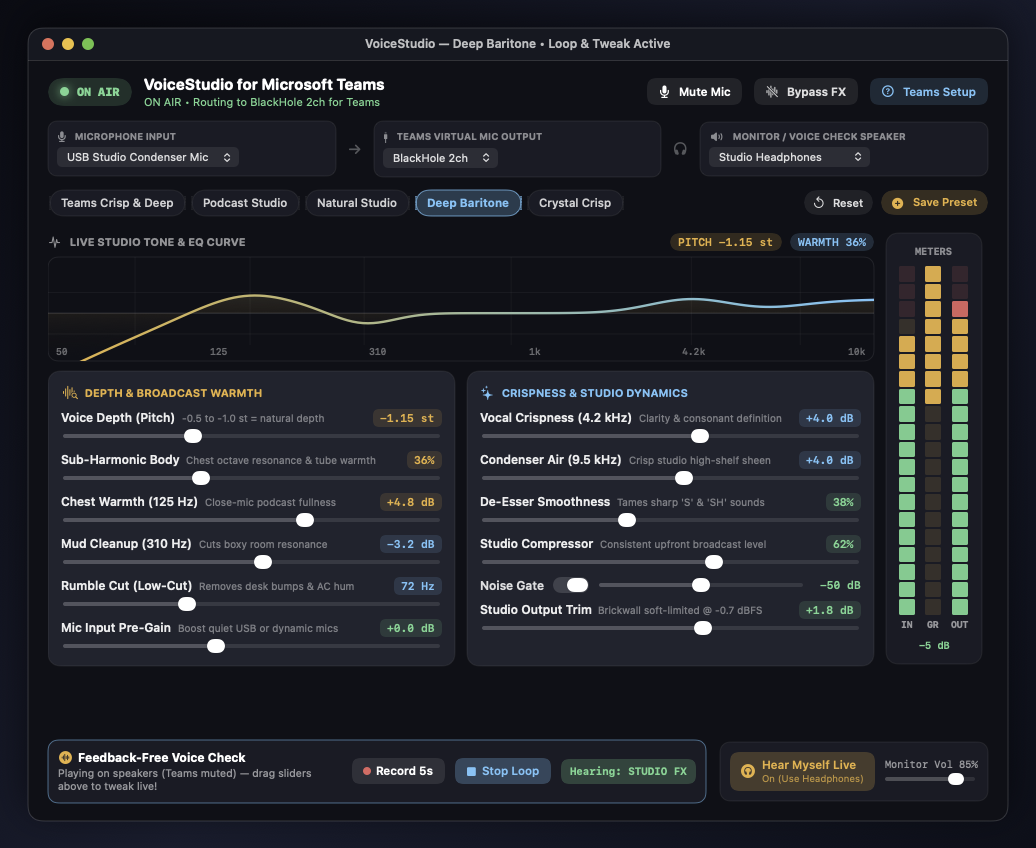
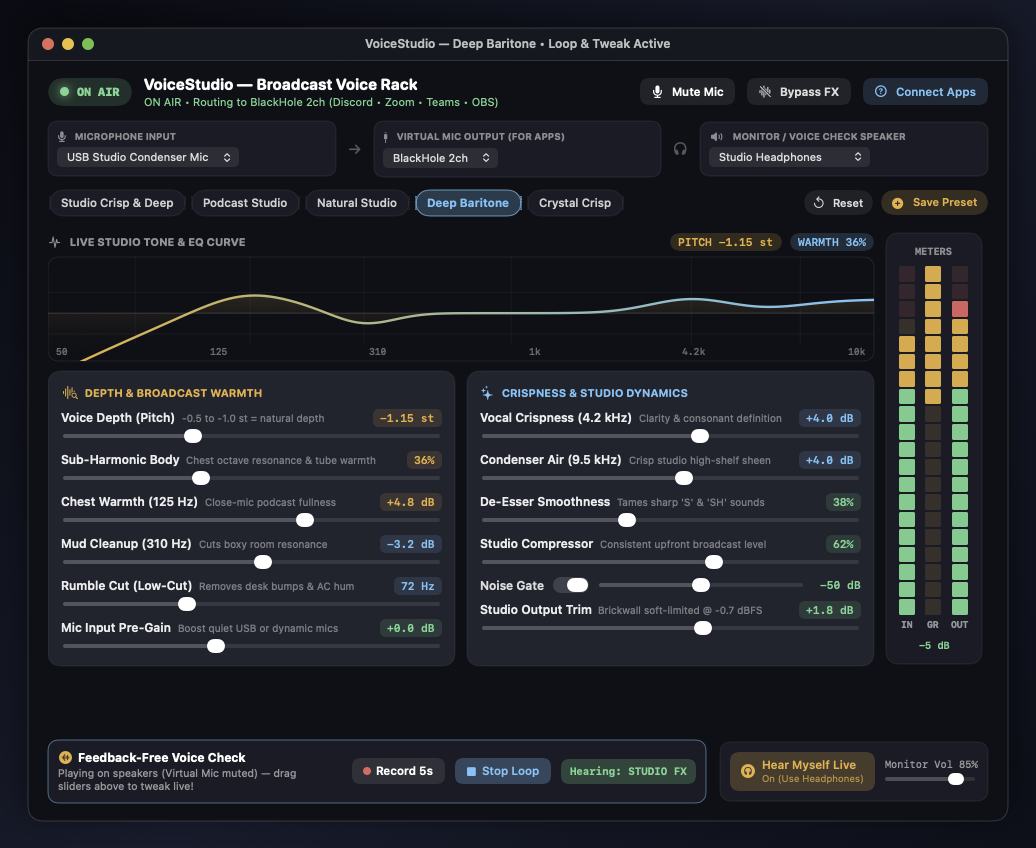
Generalize VoiceStudio across Discord, Zoom, Teams, Slack, Meet, OBS & DAWs
- Rename default preset to Studio Crisp & Deep and header to Broadcast Voice Rack
- Add Connect Apps setup guide covering Discord, Zoom, Teams, Slack, Meet, OBS, FaceTime & DAWs
- Filter Zoom and Steam loopback virtual devices alongside Teams from raw mic inputs
- Refresh SVG hero banner, Retina screenshots, README app compatibility table, and DMG quickstart

diff --git a/Sources/VoiceStudioApp/Views/AppSetupSheet.swift b/Sources/VoiceStudioApp/Views/AppSetupSheet.swift
@@ -1,0 +1,93 @@
+import SwiftUI
+
+struct AppSetupSheet: View {
+    @ObservedObject var vm: StudioViewModel
+    @Environment(\.dismiss) private var dismiss
+
+    var body: some View {
+        VStack(alignment: .leading, spacing: 16) {
+            HStack(spacing: 12) {
+                Image(systemName: "person.wave.2.fill")
+                    .font(.system(size: 24))
+                    .foregroundStyle(StudioTheme.accentCyan)
+                VStack(alignment: .leading, spacing: 2) {
+                    Text("Connect VoiceStudio to Any macOS App")
+                        .font(.system(size: 17, weight: .bold))
+                    Text(vm.isBlackHoleSelected
+                         ? "Active: \(vm.selectedInputName) → Studio DSP → BlackHole 2ch"
+                         : "Select 'BlackHole 2ch' in Virtual Mic Output, then pick it inside any app below")
+                        .font(.system(size: 12))
+                        .foregroundStyle(.secondary)
+                }
+                Spacer()
+            }
+
+            Divider()
+
+            VStack(alignment: .leading, spacing: 12) {
+                appRow(
+                    badge: "Discord",
+                    title: "Settings → Voice & Video → Input Device: 'BlackHole 2ch'",
+                    detail: "Keep Output Device on your Headphones/Speakers. Turn OFF Krisp Noise Suppression & Echo Cancellation if you want full warm sub-bass & 10 kHz studio air."
+                )
+
+                appRow(
+                    badge: "Zoom",
+                    title: "Settings → Audio → Microphone: 'BlackHole 2ch'",
+                    detail: "Enable 'Original Sound for Musicians' (High-Fidelity Music Mode off) for uncompressed studio broadcast tone."
+                )
+
+                appRow(
+                    badge: "Teams",
+                    title: "Settings → Devices → Microphone: 'BlackHole 2ch'",
+                    detail: "Set Noise Suppression to 'Low' or 'Off' so your 125 Hz chest warmth and crisp condenser sheen aren't filtered out."
+                )
+
+                appRow(
+                    badge: "Slack / Meet",
+                    title: "Audio & Video Settings → Microphone: 'BlackHole 2ch'",
+                    detail: "Works across Slack Huddles, Google Meet, Webex, WhatsApp, Telegram, FaceTime, and Steam Voice."
+                )
+
+                appRow(
+                    badge: "OBS / DAWs",
+                    title: "Audio Input Capture / Mic Aux → 'BlackHole 2ch'",
+                    detail: "Stream or record studio-ready vocals directly in OBS Studio, Twitch Studio, QuickTime, Riverside, Descript, Logic Pro, or Audacity."
+                )
+            }
+
+            HStack {
+                Text("Never set an app's Speaker / Output to BlackHole 2ch — always keep Speakers on your normal headphones or monitors.")
+                    .font(.system(size: 11))
+                    .foregroundStyle(.secondary)
+                Spacer()
+                Button("Got It") {
+                    dismiss()
+                }
+                .keyboardShortcut(.defaultAction)
+            }
+        }
+        .padding(24)
+        .frame(width: 580)
+    }
+
+    private func appRow(badge: String, title: String, detail: String) -> some View {
+        HStack(alignment: .top, spacing: 12) {
+            Text(badge)
+                .font(.system(size: 11, weight: .bold, design: .rounded))
+                .frame(width: 82, height: 24)
+                .background(StudioTheme.accentCyan.opacity(0.18))
+                .foregroundStyle(StudioTheme.accentCyan)
+                .clipShape(RoundedRectangle(cornerRadius: 6, style: .continuous))
+
+            VStack(alignment: .leading, spacing: 2) {
+                Text(title)
+                    .font(.system(size: 12.5, weight: .semibold))
+                Text(detail)
+                    .font(.system(size: 11.5))
+                    .foregroundStyle(.secondary)
+                    .fixedSize(horizontal: false, vertical: true)
+            }
+        }
+    }
+}

diff --git a/Sources/VoiceStudioApp/ViewModels/StudioViewModel.swift b/Sources/VoiceStudioApp/ViewModels/StudioViewModel.swift
@@ -54,7 +54,7 @@ public final class StudioViewModel: ObservableObject {
     }
 
     // Profiles & Presets
-    @Published public var profile: VoiceProfile = .teamsCrispAndDeep {
+    @Published public var profile: VoiceProfile = .studioCrispAndDeep {
         didSet {
             engine.applyProfile(profile)
             persistCurrentProfile()
@@ -67,7 +67,7 @@ public final class StudioViewModel: ObservableObject {
     @Published public var micPermissionDenied: Bool = false
     @Published public var statusMessage: String = "Initializing audio studio…"
     @Published public var errorBanner: String? = nil
-    @Published public var showTeamsGuide: Bool = false
+    @Published public var showAppSetupGuide: Bool = false
 
     private let engine = VoiceStudioEngine()
     private let deviceManager = CoreAudioDeviceManager.shared
@@ -100,8 +100,8 @@ public final class StudioViewModel: ObservableObject {
             selectedMonitorID = 301
             isEngineRunning = true
             micPermissionGranted = true
-            statusMessage = "ON AIR • Routing to BlackHole 2ch for Teams"
-            profile = .teamsCrispAndDeep
+            statusMessage = "ON AIR • Routing to BlackHole 2ch (Discord • Zoom • Teams • OBS)"
+            profile = .studioCrispAndDeep
             meters.inputMeterDb = -13.5
             meters.gainReductionDb = 4.2
             meters.outputMeterDb = -6.8
@@ -205,7 +205,7 @@ public final class StudioViewModel: ObservableObject {
             // keep current
         } else if let uid = savedOutUID, let match = newOutputs.first(where: { $0.uid == uid }) {
             selectedOutputID = match.id
-        } else if let pref = deviceManager.preferredTeamsVirtualOutput() {
+        } else if let pref = deviceManager.preferredVirtualMicOutput() {
             selectedOutputID = pref.id
         }
 
@@ -269,7 +269,7 @@ public final class StudioViewModel: ObservableObject {
             isEngineRunning = true
             errorBanner = nil
             statusMessage = isBlackHoleSelected
-                ? "ON AIR • Routing to BlackHole 2ch for Teams"
+                ? "ON AIR • Routing to BlackHole 2ch (Discord • Zoom • Teams • OBS)"
                 : "ON AIR • Routing to \(selectedOutputName)"
         } catch {
             isEngineRunning = false
@@ -345,7 +345,7 @@ public final class StudioViewModel: ObservableObject {
         if let builtIn = VoiceProfile.builtInPresets.first(where: { $0.id == profile.id }) {
             profile = builtIn
         } else {
-            profile = .teamsCrispAndDeep
+            profile = .studioCrispAndDeep
         }
     }
 
@@ -367,7 +367,7 @@ public final class StudioViewModel: ObservableObject {
         customPresets.removeAll { $0.id == preset.id }
         persistCustomPresets()
         if profile.id == preset.id {
-            profile = .teamsCrispAndDeep
+            profile = .studioCrispAndDeep
         }
     }
 
@@ -377,7 +377,11 @@ public final class StudioViewModel: ObservableObject {
             customPresets = decoded
         }
         if let data = UserDefaults.standard.data(forKey: profileStorageKey),
-           let saved = try? JSONDecoder().decode(VoiceProfile.self, from: data) {
+           var saved = try? JSONDecoder().decode(VoiceProfile.self, from: data) {
+            if saved.id == "builtin-teams-crisp-deep" {
+                saved.id = "builtin-studio-crisp-deep"
+                saved.name = "Studio Crisp & Deep"
+            }
             profile = saved
         }
     }

diff --git a/Sources/VoiceStudioApp/Views/MainStudioView.swift b/Sources/VoiceStudioApp/Views/MainStudioView.swift
@@ -32,8 +32,8 @@ struct MainStudioView: View {
         .frame(minWidth: 900, minHeight: 620)
         .background(StudioTheme.bgDeep)
         .preferredColorScheme(.dark)
-        .sheet(isPresented: $vm.showTeamsGuide) {
-            TeamsSetupSheet(vm: vm)
+        .sheet(isPresented: $vm.showAppSetupGuide) {
+            AppSetupSheet(vm: vm)
         }
     }
 
@@ -62,7 +62,7 @@ struct MainStudioView: View {
             .buttonStyle(.plain)
 
             VStack(alignment: .leading, spacing: 1) {
-                Text("VoiceStudio for Microsoft Teams")
+                Text("VoiceStudio — Broadcast Voice Rack")
                     .font(.system(size: 15.5, weight: .bold, design: .rounded))
                     .foregroundStyle(.white)
                 Text(vm.statusMessage)
@@ -100,11 +100,11 @@ struct MainStudioView: View {
             }
             .buttonStyle(.plain)
 
-            // Teams Setup Guide button
+            // App Setup Guide button
             Button {
-                vm.showTeamsGuide = true
+                vm.showAppSetupGuide = true
             } label: {
-                Label("Teams Setup", systemImage: "questionmark.circle")
+                Label("Connect Apps", systemImage: "questionmark.circle")
                     .font(.system(size: 11.5, weight: .semibold))
                     .padding(.horizontal, 11)
                     .padding(.vertical, 6)
@@ -164,7 +164,7 @@ struct MainStudioView: View {
 
                 devicePickerBox(
                     icon: "cable.connector",
-                    label: "TEAMS VIRTUAL MIC OUTPUT",
+                    label: "VIRTUAL MIC OUTPUT (FOR APPS)",
                     selection: Binding(
                         get: { vm.selectedOutputID },
                         set: { vm.userChangedOutputDevice($0) }

diff --git a/Sources/VoiceStudioCore/Audio/VoiceStudioEngine.swift b/Sources/VoiceStudioCore/Audio/VoiceStudioEngine.swift
@@ -71,7 +71,7 @@ public final class VoiceStudioEngine: @unchecked Sendable {
     public private(set) var activeInputDeviceID: AudioDeviceID?
     public private(set) var activeOutputDeviceID: AudioDeviceID?
     public private(set) var activeMonitorDeviceID: AudioDeviceID?
-    public private(set) var currentProfile: VoiceProfile = .teamsCrispAndDeep
+    public private(set) var currentProfile: VoiceProfile = .studioCrispAndDeep
 
     public init() {
         rtStatePtr = UnsafeMutablePointer<RealtimeDSPState>.allocate(capacity: 1)
@@ -94,7 +94,7 @@ public final class VoiceStudioEngine: @unchecked Sendable {
         monitorStereoScratchPtr.initialize(repeating: 0.0, count: maxFrames)
 
         setupRealtimeDSPEngine()
-        applyProfile(.teamsCrispAndDeep)
+        applyProfile(.studioCrispAndDeep)
     }
 
     deinit {
@@ -811,7 +811,7 @@ public final class VoiceStudioEngine: @unchecked Sendable {
                 if a > peak { peak = a }
 
                 if isLoopingCheck {
-                    // Silence BlackHole Teams output while listening to local voice check loop
+                    // Silence BlackHole virtual mic output while listening to local voice check loop
                     outL?[i] = 0.0
                     outR?[i] = 0.0
                 } else {
@@ -859,7 +859,7 @@ public final class VoiceStudioEngine: @unchecked Sendable {
             if a > peak { peak = a }
 
             if isLoopingCheck && activeOutputDeviceID != activeMonitorDeviceID {
-                // Keep Teams virtual mic quiet while user tweaks recorded loop locally
+                // Keep virtual mic quiet while user tweaks recorded loop locally
                 outL?[i] = 0.0
                 outR?[i] = 0.0
             } else {

diff --git a/Sources/VoiceStudioCore/Audio/CoreAudioDeviceManager.swift b/Sources/VoiceStudioCore/Audio/CoreAudioDeviceManager.swift
@@ -46,7 +46,7 @@ public final class CoreAudioDeviceManager: @unchecked Sendable {
     }
 
     public func inputDevices() -> [AudioDeviceInfo] {
-        allDevices().filter { $0.inputChannels > 0 && !$0.isBlackHole && !$0.isTeamsVirtualDevice }
+        allDevices().filter { $0.inputChannels > 0 && !$0.isBlackHole && !$0.isAppLoopbackVirtualDevice }
     }
 
     public func outputDevices() -> [AudioDeviceInfo] {
@@ -54,7 +54,7 @@ public final class CoreAudioDeviceManager: @unchecked Sendable {
     }
 
     public func monitorDevices() -> [AudioDeviceInfo] {
-        allDevices().filter { $0.outputChannels > 0 && !$0.isBlackHole && !$0.isTeamsVirtualDevice }
+        allDevices().filter { $0.outputChannels > 0 && !$0.isBlackHole && !$0.isAppLoopbackVirtualDevice }
     }
 
     public func systemDefaultInputDeviceID() -> AudioDeviceID? {
@@ -116,14 +116,14 @@ public final class CoreAudioDeviceManager: @unchecked Sendable {
         return inputs.first
     }
 
-    /// Automatically selects BlackHole 2ch (or other virtual audio cable) for Microsoft Teams input.
-    public func preferredTeamsVirtualOutput() -> AudioDeviceInfo? {
+    /// Automatically selects BlackHole 2ch (or other virtual audio cable) as virtual mic output for Discord, Zoom, Teams, OBS, etc.
+    public func preferredVirtualMicOutput() -> AudioDeviceInfo? {
         let outputs = outputDevices()
         if let blackHole = outputs.first(where: { $0.isBlackHole }) {
             return blackHole
         }
         if let virtualCable = outputs.first(where: {
-            $0.isVirtual && !$0.isTeamsVirtualDevice
+            $0.isVirtual && !$0.isAppLoopbackVirtualDevice
         }) {
             return virtualCable
         }

diff --git a/Tests/VoiceStudioTests/VoiceStudioTests.swift b/Tests/VoiceStudioTests/VoiceStudioTests.swift
@@ -29,7 +29,7 @@ final class VoiceStudioTests: XCTestCase {
     }
 
     func testVoiceProfileFrequencyResponseCurveReflectsCrispAndDeep() {
-        let profile = VoiceProfile.teamsCrispAndDeep
+        let profile = VoiceProfile.studioCrispAndDeep
 
         // Sub-rumble at 30 Hz should be rolled off below 0 dB by high-pass filter
         let subRumble = profile.magnitudeResponseDb(at: 30.0)
@@ -52,7 +52,7 @@ final class VoiceStudioTests: XCTestCase {
 
     func testOfflineDSPEngineProcessesSignalAndEnforcesBrickwallCeiling() {
         let engine = VoiceStudioEngine()
-        var loudProfile = VoiceProfile.teamsCrispAndDeep
+        var loudProfile = VoiceProfile.studioCrispAndDeep
         loudProfile.outputGainDb = 9.0
         engine.applyProfile(loudProfile)
 
@@ -79,7 +79,7 @@ final class VoiceStudioTests: XCTestCase {
         let inputs = manager.inputDevices()
         for mic in inputs {
             XCTAssertFalse(mic.isBlackHole, "BlackHole must never appear as mic input to avoid feedback loop")
-            XCTAssertFalse(mic.isTeamsVirtualDevice, "Teams virtual device must be excluded from raw mic inputs")
+            XCTAssertFalse(mic.isAppLoopbackVirtualDevice, "Virtual conference/stream loopback devices must be excluded from raw mic inputs")
         }
     }
 }

diff --git a/Sources/VoiceStudioCore/Models/AudioDeviceInfo.swift b/Sources/VoiceStudioCore/Models/AudioDeviceInfo.swift
@@ -36,16 +36,19 @@ public struct AudioDeviceInfo: Identifiable, Equatable, Hashable, Sendable {
         uid.localizedCaseInsensitiveContains("BlackHole")
     }
 
-    public var isTeamsVirtualDevice: Bool {
+    public var isAppLoopbackVirtualDevice: Bool {
         name.localizedCaseInsensitiveContains("Microsoft Teams") ||
-        uid.localizedCaseInsensitiveContains("MSTeams")
+        uid.localizedCaseInsensitiveContains("MSTeams") ||
+        name.localizedCaseInsensitiveContains("ZoomAudioDevice") ||
+        uid.localizedCaseInsensitiveContains("ZoomAudio") ||
+        name.localizedCaseInsensitiveContains("Steam Streaming")
     }
 
     public var isExternalPhysicalMic: Bool {
         inputChannels > 0 &&
         !isVirtual &&
         !isBlackHole &&
-        !isTeamsVirtualDevice &&
+        !isAppLoopbackVirtualDevice &&
         !name.localizedCaseInsensitiveContains("MacBook") &&
         !name.localizedCaseInsensitiveContains("iPhone")
     }

diff --git a/Sources/VoiceStudioCore/Models/VoiceProfile.swift b/Sources/VoiceStudioCore/Models/VoiceProfile.swift
@@ -116,9 +116,9 @@ public struct VoiceProfile: Codable, Equatable, Identifiable, Sendable {
 
     // MARK: - Built-in Studio Presets
 
-    public static let teamsCrispAndDeep = VoiceProfile(
-        id: "builtin-teams-crisp-deep",
-        name: "Teams Crisp & Deep",
+    public static let studioCrispAndDeep = VoiceProfile(
+        id: "builtin-studio-crisp-deep",
+        name: "Studio Crisp & Deep",
         subtitle: "Crisp condenser sheen + subtle authoritative depth",
         isBuiltIn: true,
         pitchCents: -65,
@@ -217,7 +217,7 @@ public struct VoiceProfile: Codable, Equatable, Identifiable, Sendable {
     )
 
     public static let builtInPresets: [VoiceProfile] = [
-        .teamsCrispAndDeep,
+        .studioCrispAndDeep,
         .podcastBroadcast,
         .subtleNaturalPolish,
         .executiveBaritone,

diff --git a/Sources/VoiceStudioApp/ScreenshotExporter.swift b/Sources/VoiceStudioApp/ScreenshotExporter.swift
@@ -14,10 +14,10 @@ enum ScreenshotExporter {
         NSApplication.shared.setActivationPolicy(.prohibited)
         try? FileManager.default.createDirectory(atPath: outDir, withIntermediateDirectories: true)
 
-        // 1. Main Studio Console ("Teams Crisp & Deep")
+        // 1. Main Studio Console ("Studio Crisp & Deep")
         let vm1 = StudioViewModel(screenshotPreviewMode: true)
         renderFramedScreenshot(
-            title: "VoiceStudio — Teams Broadcast Rack",
+            title: "VoiceStudio — macOS Broadcast Voice Rack",
             showTrafficLights: true,
             contentSize: CGSize(width: 980, height: 760),
             to: "\(outDir)/screenshot-main-rack.png"

diff --git a/Sources/VoiceStudioCore/Audio/BiquadDSP.swift b/Sources/VoiceStudioCore/Audio/BiquadDSP.swift
@@ -106,7 +106,7 @@ public struct SubHarmonicExciter: Sendable {
 }
 
 /// Real-time Split-Band Dynamic De-Esser centered around vocal sibilance (6.5 kHz).
-/// Keeps crispness/air silky without harsh "S" and "SH" spikes on Microsoft Teams.
+/// Keeps crispness/air silky without harsh "S" and "SH" spikes on voice calls & streams.
 public struct DynamicDeEsser: Sendable {
     private var sibilanceBP = BiquadFilter()
     private var sibEnv: Float = 0.0

diff --git a/Sources/VoiceStudioApp/Views/VoiceCheckBar.swift b/Sources/VoiceStudioApp/Views/VoiceCheckBar.swift
@@ -136,7 +136,7 @@ struct VoiceCheckBar: View {
             return "Speak normally for a few seconds…"
         }
         if vm.isPlayingCheckLoop {
-            return "Playing on speakers (Teams muted) — drag sliders above to tweak live!"
+            return "Playing on speakers (Virtual Mic muted) — drag sliders above to tweak live!"
         }
         return "Record once & loop on speakers to dial in sliders with zero feedback"
     }

diff --git a/Sources/VoiceStudioApp/VoiceStudioApp.swift b/Sources/VoiceStudioApp/VoiceStudioApp.swift
@@ -46,7 +46,7 @@ struct VoiceStudioApp: App {
     }
 
     var body: some Scene {
-        Window("VoiceStudio — Teams Broadcast Rack", id: "studio-main") {
+        Window("VoiceStudio — macOS Broadcast Voice Rack", id: "studio-main") {
             MainStudioView(vm: viewModel)
                 .background(StudioWindowConfigurator())
         }
